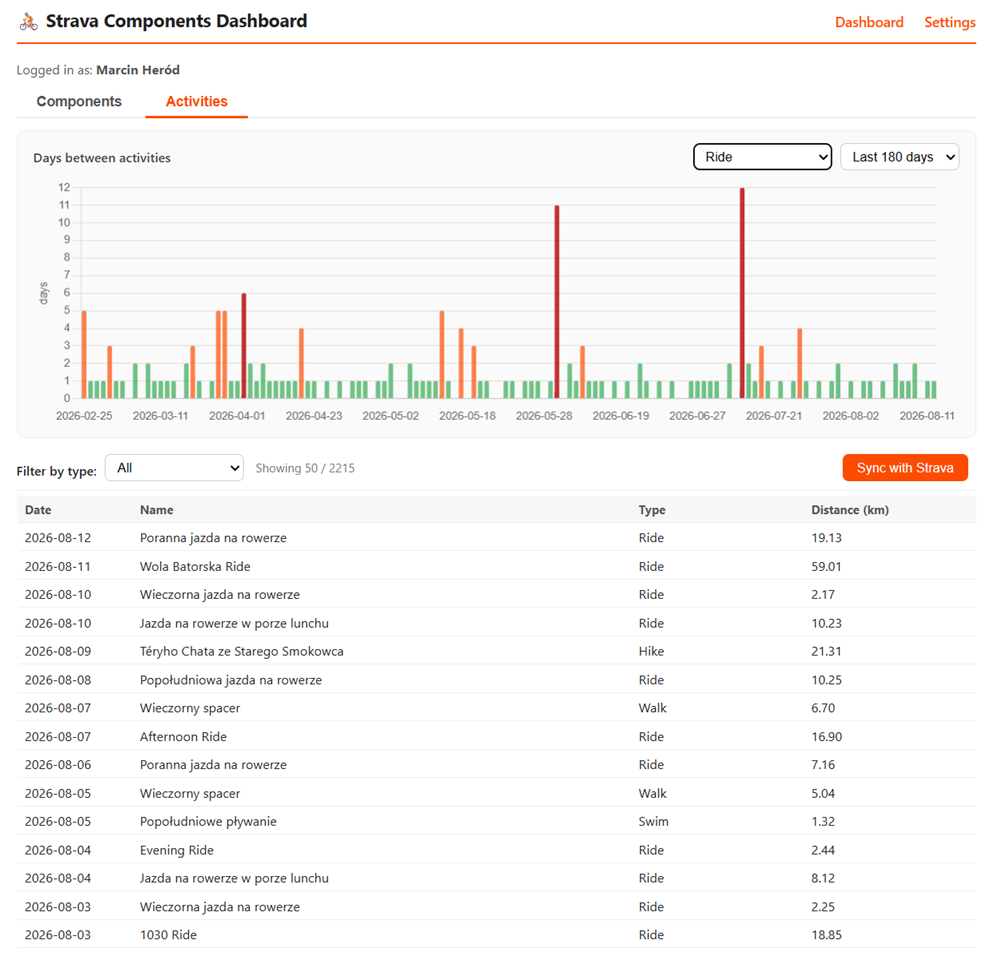
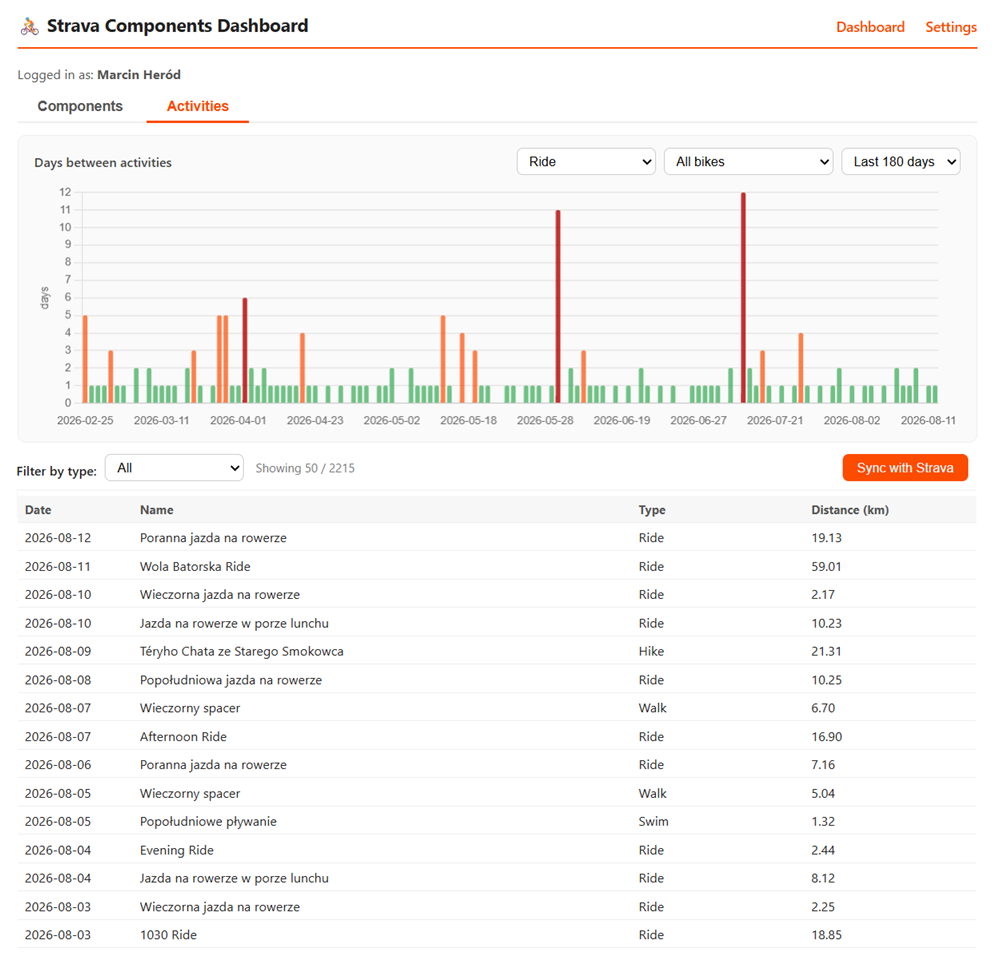
gear selection for days between activities

diff --git a/templates/dashboard.html b/templates/dashboard.html
@@ -102,6 +102,12 @@
             {% endfor %}
             <option value="all">All types</option>
           </select>
+          <select id="chart-bike-filter" {% if not bikes %}style="display:none"{% endif %}>
+            <option value="all">All bikes</option>
+            {% for bike in bikes %}
+            <option value="{{ bike.id }}">{{ bike.name }}</option>
+            {% endfor %}
+          </select>
           <select id="chart-period">
             <option value="90">Last 90 days</option>
             <option value="180" selected>Last 180 days</option>
@@ -177,12 +183,17 @@
     const ctx = document.getElementById('gapChart').getContext('2d');
     let gapChart = null;
 
-    function buildChartData(typeFilter, days) {
+    const chartTypeFilter = document.getElementById('chart-type-filter');
+    const chartBikeFilter = document.getElementById('chart-bike-filter');
+    const chartPeriod = document.getElementById('chart-period');
+
+    function buildChartData(typeFilter, bikeFilter, days) {
       const now = new Date();
       const cutoff = days > 0 ? new Date(now - days * 86400000) : new Date(0);
 
       const filtered = ALL_ACTIVITIES.filter(a => {
         if (typeFilter !== 'all' && a.type !== typeFilter) return false;
+        if (bikeFilter !== 'all' && a.gear_id !== bikeFilter) return false;
         return new Date(a.start_date) >= cutoff;
       }).sort((a, b) => new Date(a.start_date) - new Date(b.start_date));
 
@@ -201,13 +212,20 @@
     }
 
     function renderChart() {
-      const typeFilter = document.getElementById('chart-type-filter').value;
-      const days = parseInt(document.getElementById('chart-period').value);
-      const { labels, data } = buildChartData(typeFilter, days);
+      const typeFilter = chartTypeFilter.value;
+      const bikeFilter = chartBikeFilter ? chartBikeFilter.value : 'all';
+      const days = parseInt(chartPeriod.value);
+
+      // Show bike dropdown only when type is Ride
+      if (chartBikeFilter) {
+        chartBikeFilter.style.display = (typeFilter === 'Ride') ? '' : 'none';
+        if (typeFilter !== 'Ride') chartBikeFilter.value = 'all';
+      }
+
+      const { labels, data } = buildChartData(typeFilter, bikeFilter, days);
 
       if (gapChart) gapChart.destroy();
 
-      // Color bars: green <= 2 days, orange <= 5, red > 5
       const colors = data.map(d =>
         d <= 2 ? 'rgba(52, 168, 83, 0.7)' :
         d <= 5 ? 'rgba(252, 76, 2, 0.7)' :
@@ -252,8 +270,9 @@
       });
     }
 
-    document.getElementById('chart-type-filter').addEventListener('change', renderChart);
-    document.getElementById('chart-period').addEventListener('change', renderChart);
+    chartTypeFilter.addEventListener('change', renderChart);
+    if (chartBikeFilter) chartBikeFilter.addEventListener('change', renderChart);
+    chartPeriod.addEventListener('change', renderChart);
     renderChart();
 
     // --- Tab switching ---
